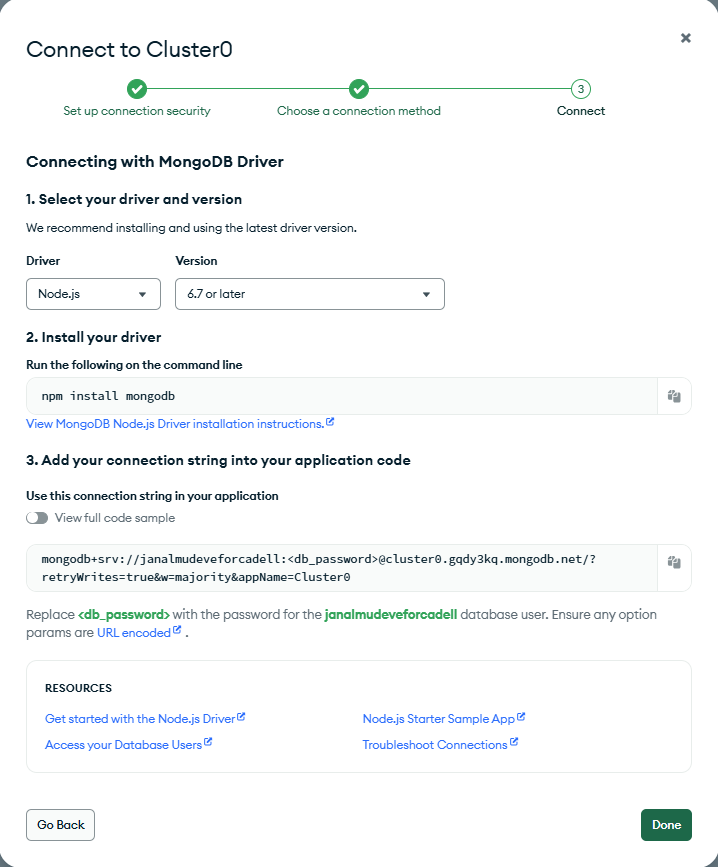
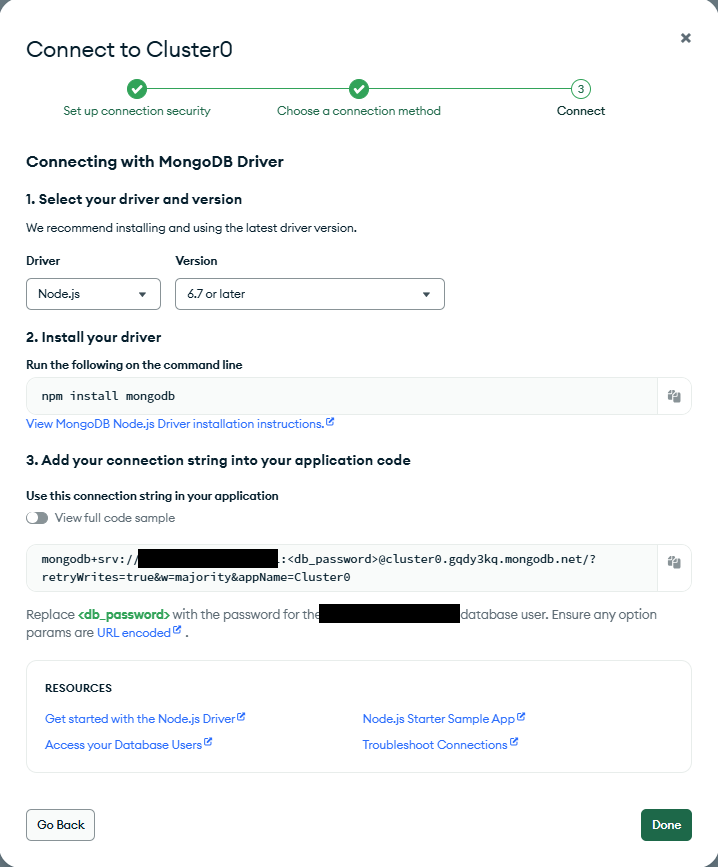
new photos + new look for readme

Changed region(s): [[0.429, 0.6851, 0.6435, 0.7163], [0.1838, 0.6228, 0.3983, 0.654]]

diff --git a/README.md b/README.md
@@ -4,20 +4,25 @@ ChefAI is an intelligent cooking API that lets you input any combination of ingr
 ## Who to use it?
 #1. Go to OpenAI api-keys
 https://platform.openai.com/api-keys
-  **1.1 Go to API keys and Create new scret key**:
+  **1.1 Go to API keys and Create new scret key**
     ![Simple Design](docs/step1.png)
-  **1.2 Name the new API key and give all permisions**:
+
+  **1.2 Name the new API key and give all permisions**
     ![Simple Design](docs/step2.png)
-  **1.3 Copy the key and paste it in the .env**:
+
+  **1.3 Copy the key and paste it in the .env**
     ![Simple Design](docs/step3.png)
 
 #2. Go to MongoDB
 https://cloud.mongodb.com/
-  **2.1 Go to cluster and create a new one**:
+  **2.1 Go to cluster and create a new one**
     ![Simple Design](docs/step4.png)
-  **2.2 Config the cluster like the photo and follow the steps below**:
+
+  **2.2 Config the cluster like the photo and follow the steps below**
     ![Simple Design](docs/step5.png)
-  **2.3 Copy the connection string to the .env**:
+
+  **2.3 Copy the connection string to the .env**
+    ![Simple Design](docs/step6.png)
   
 #3. Add your OpenAI and MongoDB credentials
 Inside .env, paste your keys like this:
